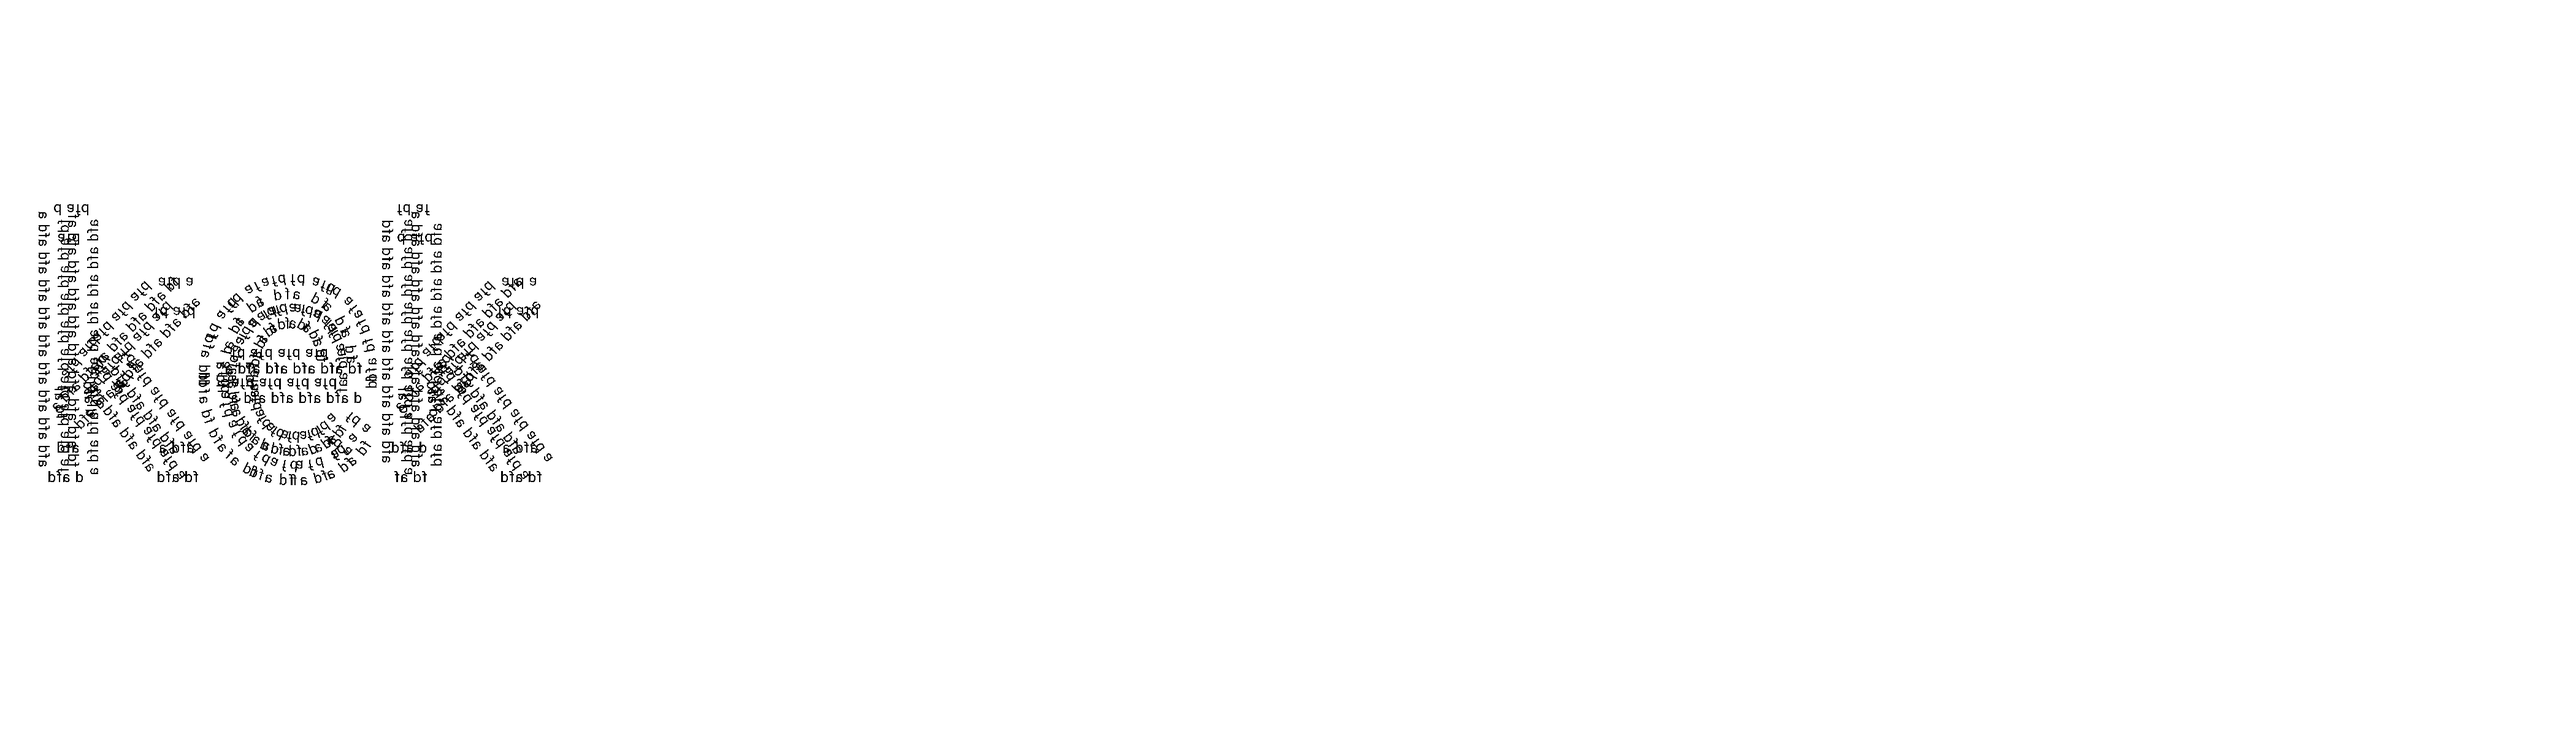
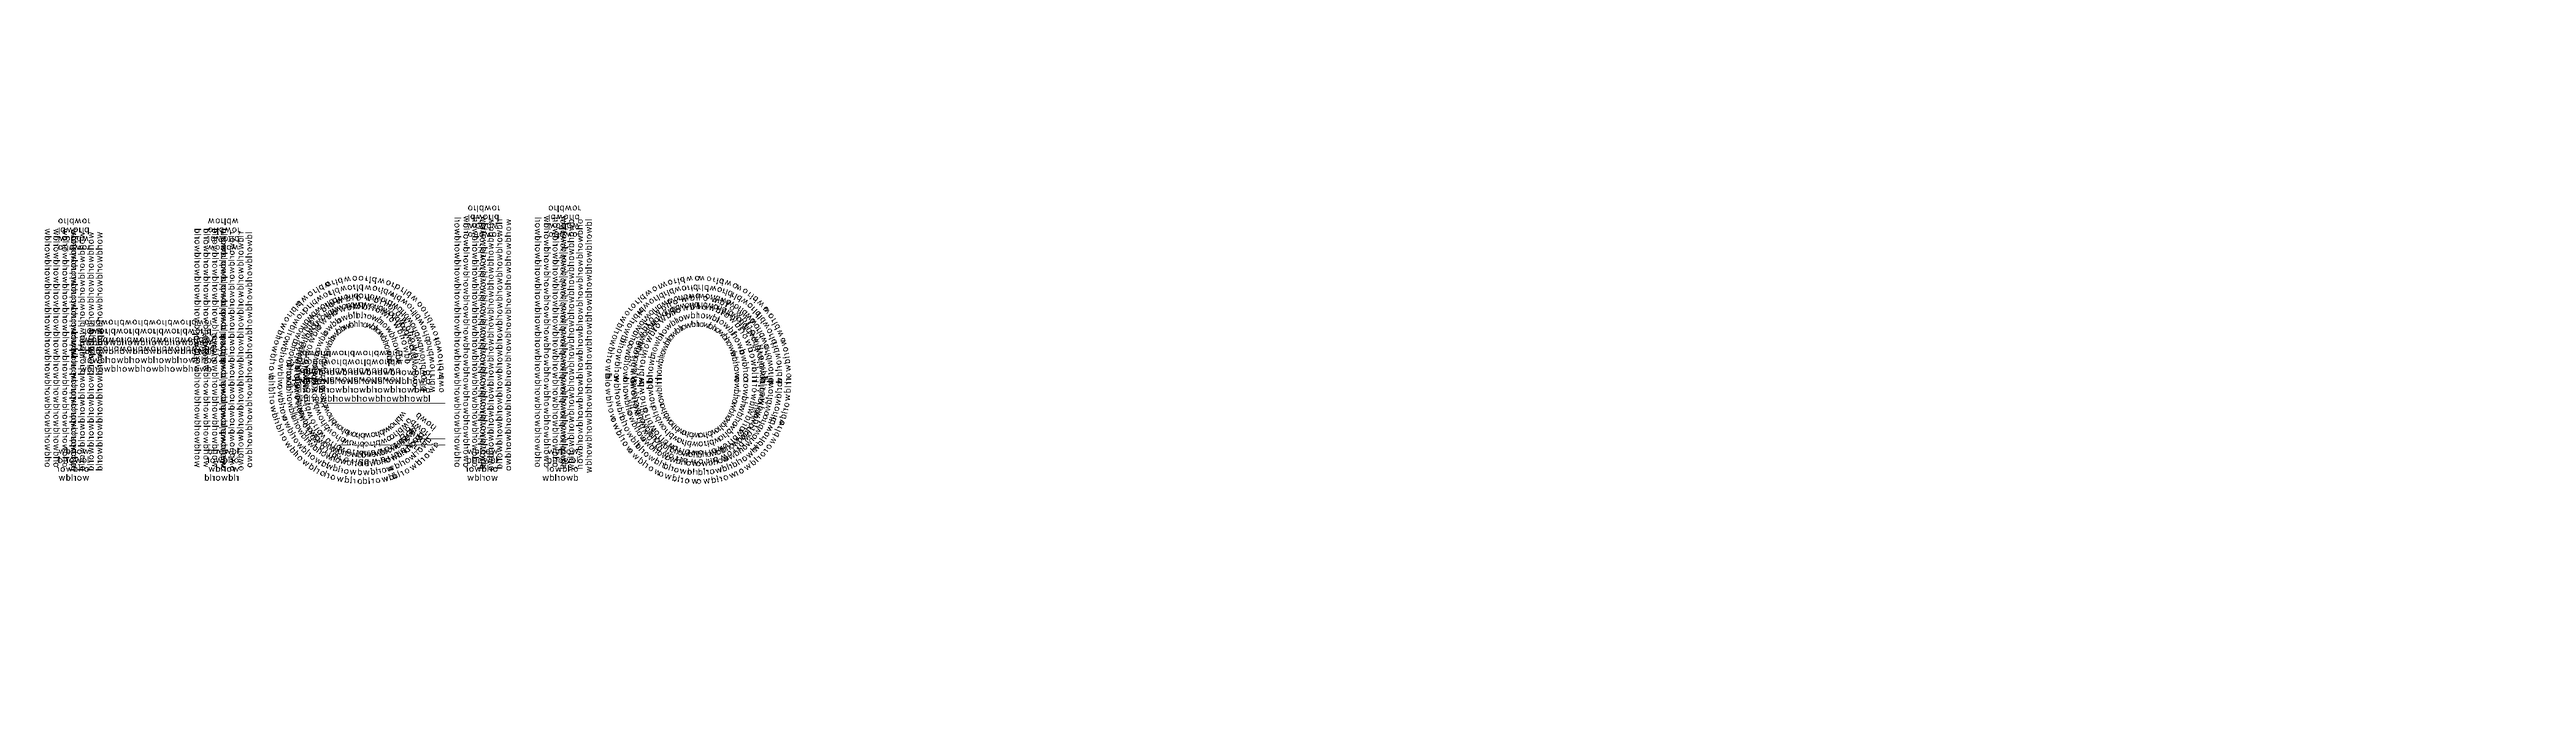
add askii rasterizer

Changed region(s): [[0.0, 0.2775, 0.3119, 0.6475]]

diff --git a/renderer/text.go b/renderer/text.go
@@ -109,12 +109,14 @@ func (tr *TextRenderer) renderFillerGlyph(r rune, pos geom.Point, tangent geom.P
 		return 0
 	}
 
-	angle := math.Atan2(tangent.Y, tangent.X)
+	// Rotate to follow tangent, +π to flip right-side up since we traverse paths backwards
+	angle := math.Atan2(tangent.Y, tangent.X) + math.Pi
 
 	for _, seg := range segments {
 		transformedPoints := make([]geom.Point, len(seg.Points))
 		for i, p := range seg.Points {
-			p.Y = -p.Y
+			// Mirror X to correct letter orientation after π rotation
+			p.X = -p.X
 			rotated := p.Rotate(angle)
 			transformedPoints[i] = rotated.Add(pos)
 		}
@@ -161,9 +163,12 @@ func (tr *TextRenderer) RenderTextWithFiller(settings RenderSettings, startX, ba
 			}
 
 			for row := 0; row < numRows; row++ {
+				// Pack rows tightly based on filler height, centered on curve
 				rowOffset := 0.0
 				if numRows > 1 {
-					rowOffset = (float64(row)/float64(numRows-1) - 0.5) * settings.StrokeWidth
+					// Rows span (numRows-1)*fillerHeight, centered
+					totalSpan := float64(numRows-1) * fillerHeight
+					rowOffset = (float64(row)/float64(numRows-1)-0.5)*totalSpan
 				}
 
 				dist := 0.0
